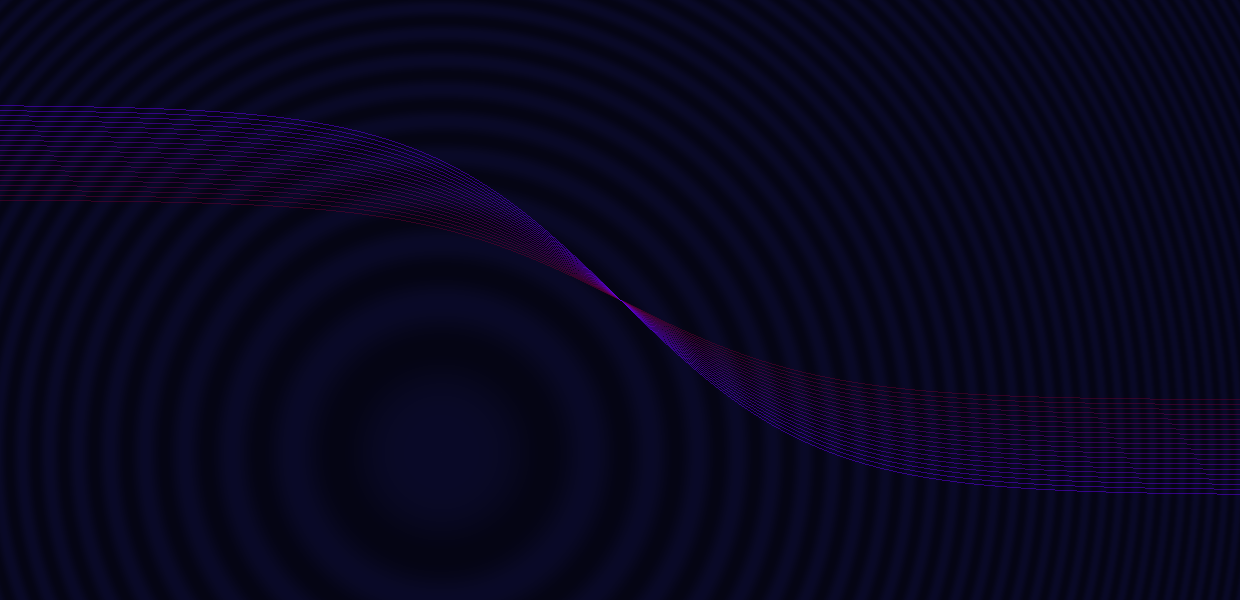
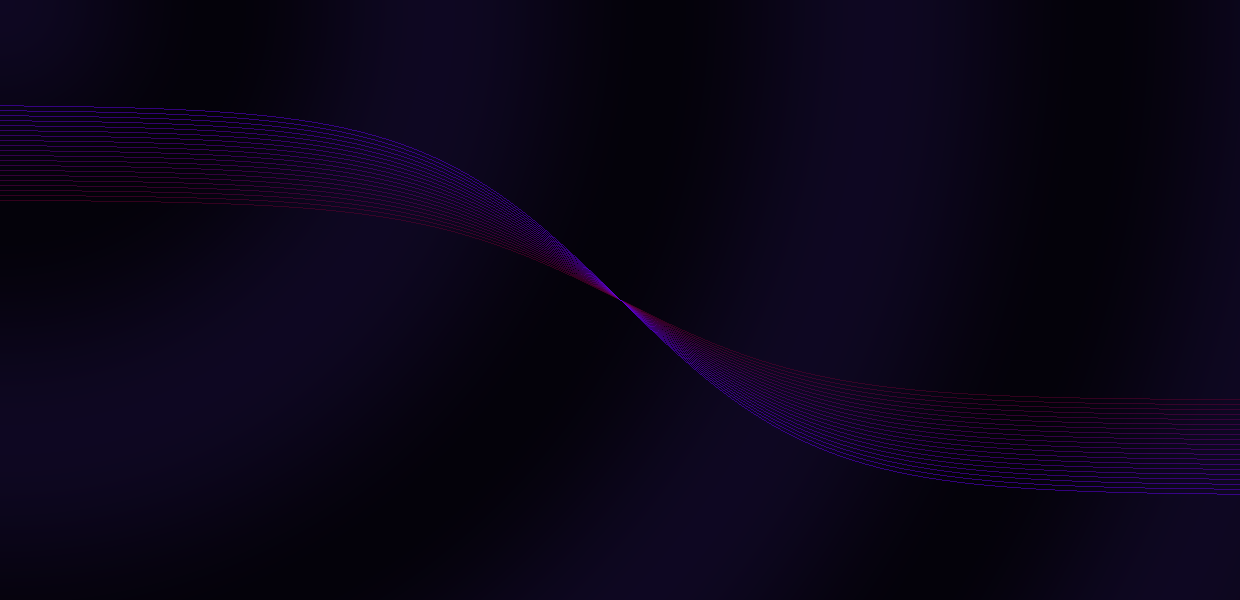
Add files via upload

diff --git a/contact.html b/contact.html
@@ -2,14 +2,17 @@
 <html xmlns="http://www.w3.org/1999/xhtml">
 <head>
 <meta http-equiv="Content-Type" content="text/html; charset=utf-8" />
-<title>LefTech, Inc. | technology solutions</title>
+<title>LefTech | R&D + technology solutions</title>
 <link href="css/style.css" rel="stylesheet" type="text/css" />
 </head>
 <body>
 	<div id="page">
 		<div id="logo" class="greyaddress" style="top: 0px; left: -10px; height: 165px;">
-		<a href="http://www.lefTech.org">
-		<img alt="LefTech" src="images/LTlogo+tag(sm).png" style="border:0pt none; height: 165px;"></a>
+		<a href="index.html">
+		<img alt="LefTech" src="images/LTLogo+tag(sm).png" style="border:0pt none; height:165px;"></a>
+		</div>
+		<div id="logo" class="greyaddress" style="top: 0px; left: 310px; height: 65px;">
+		<img alt="LefTech" src="images/Name.gif" style="border:0pt none; height:65px;">
 		</div>
 		<div id="navigation">
 			<ul>
@@ -32,8 +35,8 @@
 			</div>
 			<div id="caption1">
 			<h1><br />					
-			<div id="edata">General Inquiries: <br /><a href="mailto:contact@leftech.org">contact@leftech.org</a></div><br /><br />
-			<div id="edata"> Contract Service or Fulfillment Status: <br /><a href="mailto:LefTech@leftech.org">LefTech@leftech.org</a><br /></div></h1>
+			<div id="edata">General Inquiries: <br /><a href="mailto:dcc241@hotmail.com">dcc241@hotmail.com</a></div><br /><br />
+			<div id="edata"> Contract Service or Fulfillment Status: <br /><a href="mailto:dcc241@hotmail.com">dcc241@hotmail.com</a><br /></div></h1>
 				<p></p>
 			</div>	
 		</div>
@@ -57,7 +60,7 @@
 			</ul>
 			</div>
 				<div id="company">
-					<div id="edata">e-mail: <a href="mailto:contact@leftech.org">contact@leftech.org</a><br />website: <a href="http://www.LefTech.org">www.LefTech.org</a></div>
+					<div id="edata">e-mail: <a href="mailto:dcc241@hotmail.com">dcc241@hotmail.com</a><br />website: <a href="https://lefty241.github.io/">lefty241.github.io</a></div>
 					<div id="copyright" class="greyaddress">
 					Copyright ©2015 LefTech, Inc.<br />
 					Template Design by <a href="http://www.investintech.com">Investintech PDF Solutions</a>

diff --git a/services.html b/services.html
@@ -2,14 +2,17 @@
 <html xmlns="http://www.w3.org/1999/xhtml">
 <head>
 <meta http-equiv="Content-Type" content="text/html; charset=utf-8" />
-<title>LefTech, Inc. | technology solutions</title>
+<title>LefTech | R&D + technology solutions</title>
 <link href="css/style.css" rel="stylesheet" type="text/css" />
 </head>
 <body>
 	<div id="page">
 		<div id="logo" class="greyaddress" style="top: 0px; left: -10px; height: 165px;">
-		<a href="http://www.lefTech.org">
-		<img alt="LefTech" src="images/LTlogo+tag(sm).png" style="border:0pt none; height: 165px;"></a>
+		<a href="index.html">
+		<img alt="LefTech" src="images/LTLogo+tag(sm).png" style="border:0pt none; height:165px;"></a>
+		</div>
+		<div id="logo" class="greyaddress" style="top: 0px; left: 310px; height: 65px;">
+		<img alt="LefTech" src="images/Name.gif" style="border:0pt none; height:65px;">
 		</div>
 		<div id="navigation">
 			<ul>
@@ -65,7 +68,7 @@
 			</ul>
 			</div>
 				<div id="company">
-					<div id="edata">e-mail: <a href="mailto:contact@leftech.org">contact@leftech.org</a><br />website: <a href="http://www.LefTech.org">www.LefTech.org</a></div>
+					<div id="edata">e-mail: <a href="mailto:dcc241@hotmail.com">dcc241@hotmail.com</a><br />website: <a href="https://lefty241.github.io/">lefty241.github.io</a></div>
 					<div id="copyright" class="greyaddress">
 					Copyright ©2015 LefTech, Inc.<br />
 					Template Design by <a href="http://www.investintech.com">Investintech PDF Solutions</a>

diff --git a/index.html b/index.html
@@ -8,12 +8,11 @@
 <body>
 	<div id="page">
 		<div id="logo" class="greyaddress" style="top: 0px; left: -10px; height: 165px;">
-		<a href="https://lefty241.github.io/">
+		<a href="index.html">
 		<img alt="LefTech" src="images/LTLogo+tag(sm).png" style="border:0pt none; height:165px;"></a>
 		</div>
-		<div id="logo" class="greyaddress" style="top: 0px; left: 310px; height: 165px;">
-		<a href="https://lefty241.github.io/">
-		<img alt="LefTech" src="images/Name.gif" style="border:0pt none; height:65px;"></a>
+		<div id="logo" class="greyaddress" style="top: 0px; left: 310px; height: 65px;">
+		<img alt="LefTech" src="images/Name.gif" style="border:0pt none; height:65px;">
 		</div>
 		<div id="navigation">
 			<ul>
@@ -93,9 +92,9 @@
 			</ul>
 			</div>
 				<div id="company">
-					<div id="edata">e-mail: <a href="mailto:contact@leftech.org">contact@leftech.org</a><br />website: <a href="https://lefty241.github.io/">LefTech</a></div>
+					<div id="edata">e-mail: <a href="mailto:dcc241@hotmail.com">dcc241@hotmail.com</a><br />website: <a href="https://lefty241.github.io/">lefty241.github.io</a></div>
 					<div id="copyright" class="greyaddress">
-					Copyright ©2015 LefTech <br />
+					Copyright ©2015 LefTech, Inc.<br />
 					Template Design by <a href="http://www.investintech.com">Investintech PDF Solutions</a>
 					</div>
 				</div>

diff --git a/css/style.css b/css/style.css
@@ -10,7 +10,7 @@ body {
 	background-color:black;
 	background-position:top;
 	background-repeat:no-repeat;
-	background-size:cover;
+	background-size:100% 100%;
 	margin:0 auto;
 	font-family:Verdana, Geneva, sans-serif;
 	font-size:12px;
